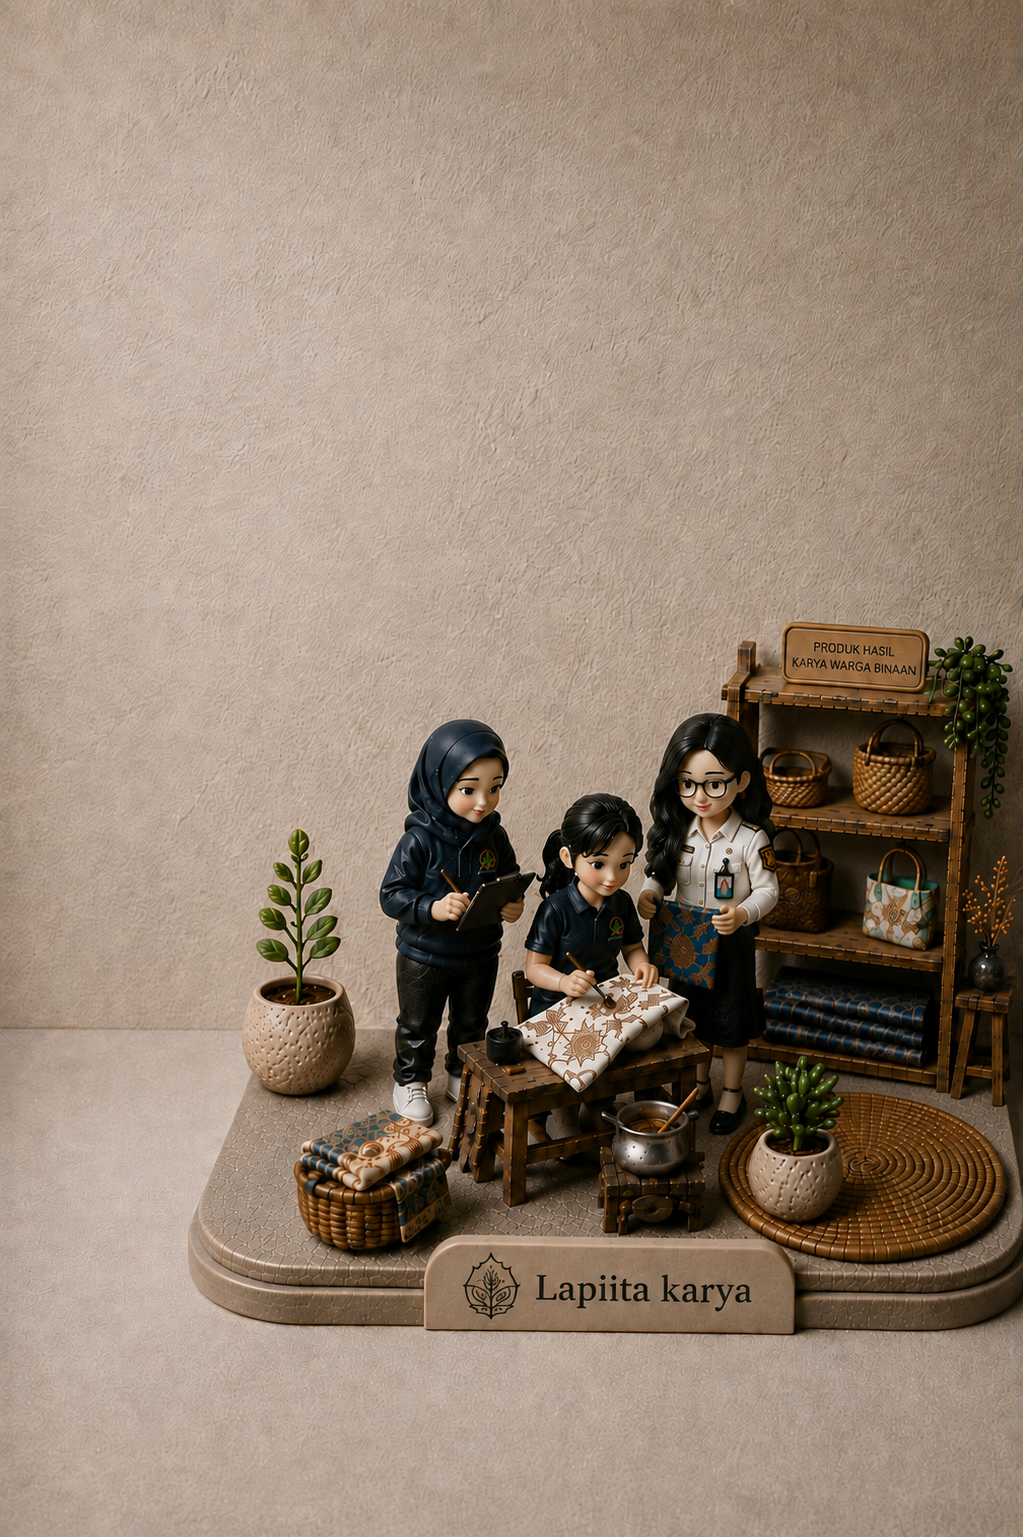
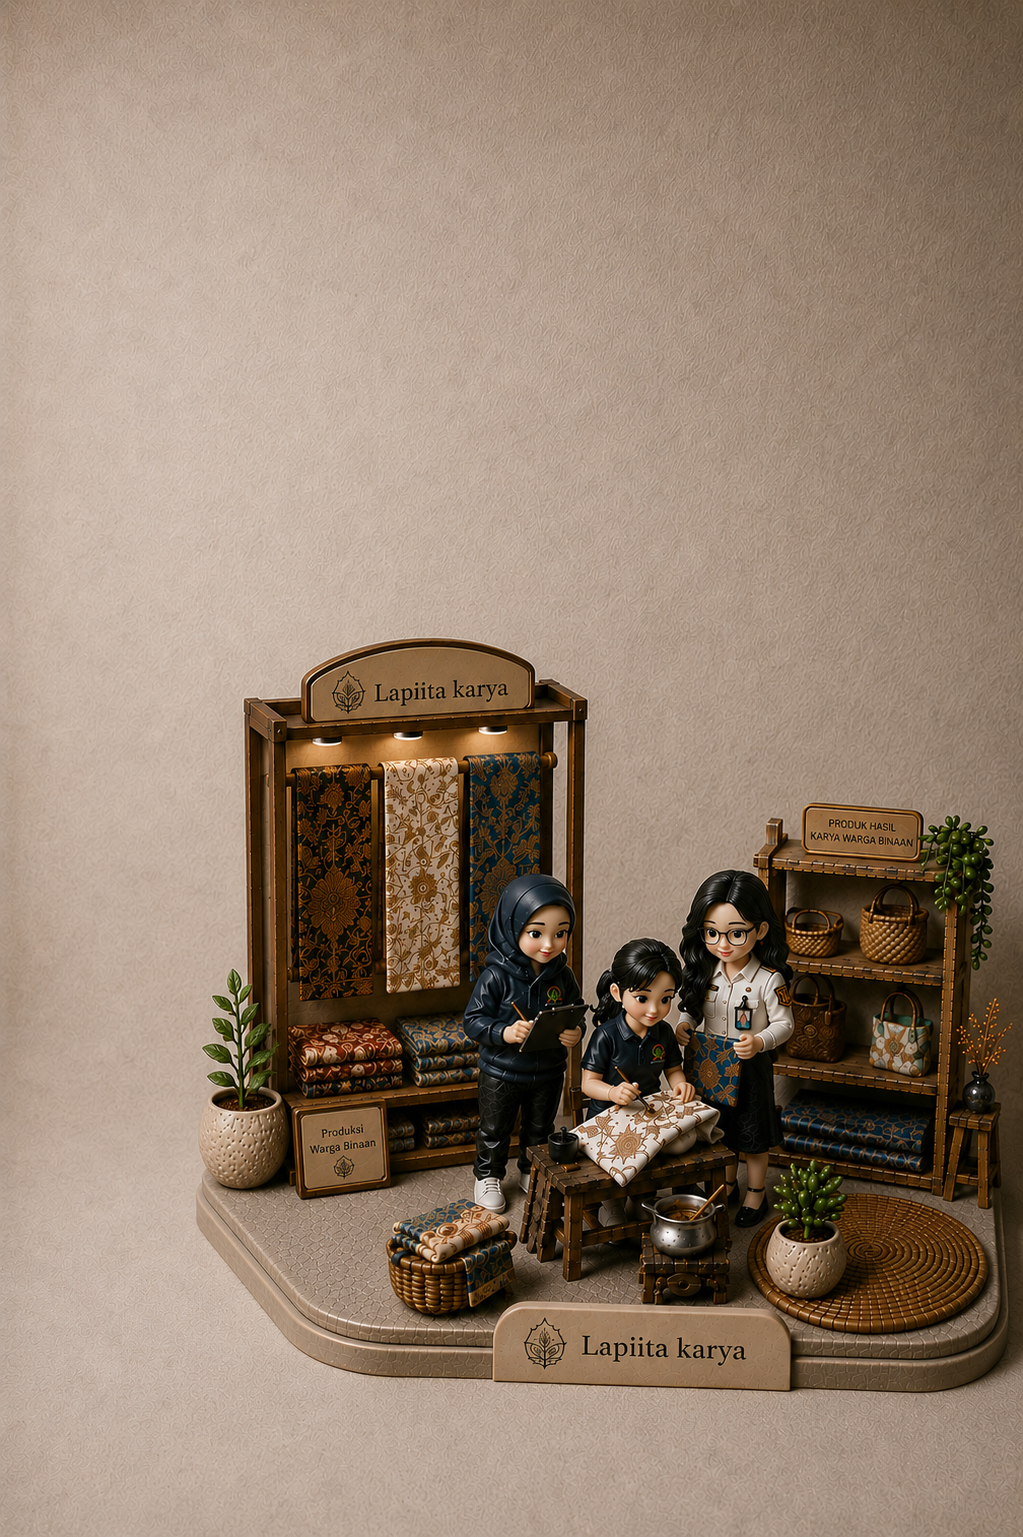
update

diff --git a/src/components/home/cards-section.tsx b/src/components/home/cards-section.tsx
@@ -213,6 +213,36 @@ const CARDS: GridCard[] = [
       </CardShell>
     ),
   },
+  {
+    id: 4,
+    label: "Pasal 9 Huruf j",
+    // Same three-stop diagonal recipe as cards 1 and 3 (light -> mid ->
+    // deep), just moved into a dusty slate-blue family instead of their
+    // amber or sage — a fourth color in the same warm-museum tonal
+    // range (soft, desaturated, never neon) rather than a clashing
+    // primary blue.
+    gradient: "linear-gradient(145deg, #e7edf1 0%, #a6bfcc 50%, #3f6072 100%)",
+    ring: "ring-ink/5",
+    textTone: "dark",
+    front: (
+      <CardShell eyebrow="Hak Narapidana" footer="04 — Pasal 9 Huruf j" tone="dark">
+        <p className="max-w-[32ch] text-balance font-serif text-lg font-medium leading-relaxed text-ink sm:text-xl">
+          Pasal 9 huruf j: Narapidana berhak mendapatkan jaminan keselamatan
+          kerja, upah, atau premi hasil bekerja.
+        </p>
+      </CardShell>
+    ),
+    back: (
+      <CardShell eyebrow="Definisi Premi" footer="Pasal 9 Huruf j" tone="dark">
+        <p className="max-w-[32ch] text-balance font-serif text-lg leading-relaxed text-ink/90 sm:text-xl">
+          Premi adalah hadiah dalam bentuk uang atau barang untuk Narapidana
+          yang melakukan kegiatan pelatihan kerja/keterampilan atau pekerjaan
+          yang bersifat pemeliharaan, misalnya bekerja di dapur atau
+          membersihkan lingkungan.
+        </p>
+      </CardShell>
+    ),
+  },
 ];
 
 function FlipCard({ card }: { card: GridCard }) {
@@ -441,10 +471,10 @@ export function CardsSection() {
                 {CARDS.map((card, i) => {
                   // Signed shortest-path distance from the active card:
                   // 0 = active/center, -1 = previous/left slot, +1 =
-                  // next/right slot. With exactly three cards this always
-                  // resolves to one of those three values — every card is
-                  // always in one of the three slots, always visible,
-                  // never fully hidden off-stage.
+                  // next/right slot, ±2 etc. for any further cards. Every
+                  // card is always visible (just pushed further out by
+                  // offsetPercent for larger |rel|), never fully hidden
+                  // off-stage.
                   let rel = (i - selectedIndex + total) % total;
                   if (rel > total / 2) rel -= total;
 

diff --git a/app/admin/page.tsx b/app/admin/page.tsx
@@ -1,7 +1,9 @@
 import type { Metadata } from "next";
 import Link from "next/link";
+import { redirect } from "next/navigation";
 import { ArrowUpRight, Package, Receipt } from "lucide-react";
 
+import { auth } from "@/auth";
 import { getAdminOrders } from "@/lib/admin/orders";
 import { getAdminProducts } from "@/lib/admin/products";
 import { Container } from "@/components/home/container";
@@ -11,7 +13,26 @@ export const metadata: Metadata = {
   title: "Dashboard — Admin — Lapiita Karya",
 };
 
+// Force this page to render fresh on every request instead of being
+// statically prerendered at build time. Without this, Next.js can treat
+// the page as static (it has no cookies()/headers() calls of its own) and
+// Vercel's CDN can then cache and serve that build-time HTML to every
+// visitor — stale data at best, and it means the page's own content isn't
+// being regenerated per-request even though middleware still runs first.
+export const dynamic = "force-dynamic";
+
 export default async function AdminDashboardPage() {
+  // Defense-in-depth: middleware.ts already gates everything under
+  // /admin behind an authenticated ADMIN session, but this page no longer
+  // trusts that alone. If middleware ever fails to run for a given
+  // request — a misconfigured matcher, a rewrite/proxy in front of it, a
+  // future edit that narrows the matcher — this check independently
+  // refuses to render admin data for anyone who isn't a verified admin.
+  const session = await auth();
+  if (session?.user?.role !== "ADMIN") {
+    redirect("/admin/login");
+  }
+
   const [orders, products] = await Promise.all([
     getAdminOrders(),
     getAdminProducts(),

diff --git a/src/components/home/categories-section.tsx b/src/components/home/categories-section.tsx
@@ -34,7 +34,12 @@ export async function CategoriesSection() {
           href: `/shop/${data.fashion.slug}?sub=${subcategory.slug}`,
         })),
         {
-          category: { ...data.fashion, name: "Tampilkan Semua" },
+          category: {
+            ...data.fashion,
+            name: "Tampilkan Semua",
+            imageUrl:
+              "https://res.cloudinary.com/vkuafeej/image/upload/v1786363402/lapiita-karya/products/u31clrq4xaokunpumdif.png",
+          },
           href: `/shop/${data.fashion.slug}`,
         },
       ]
